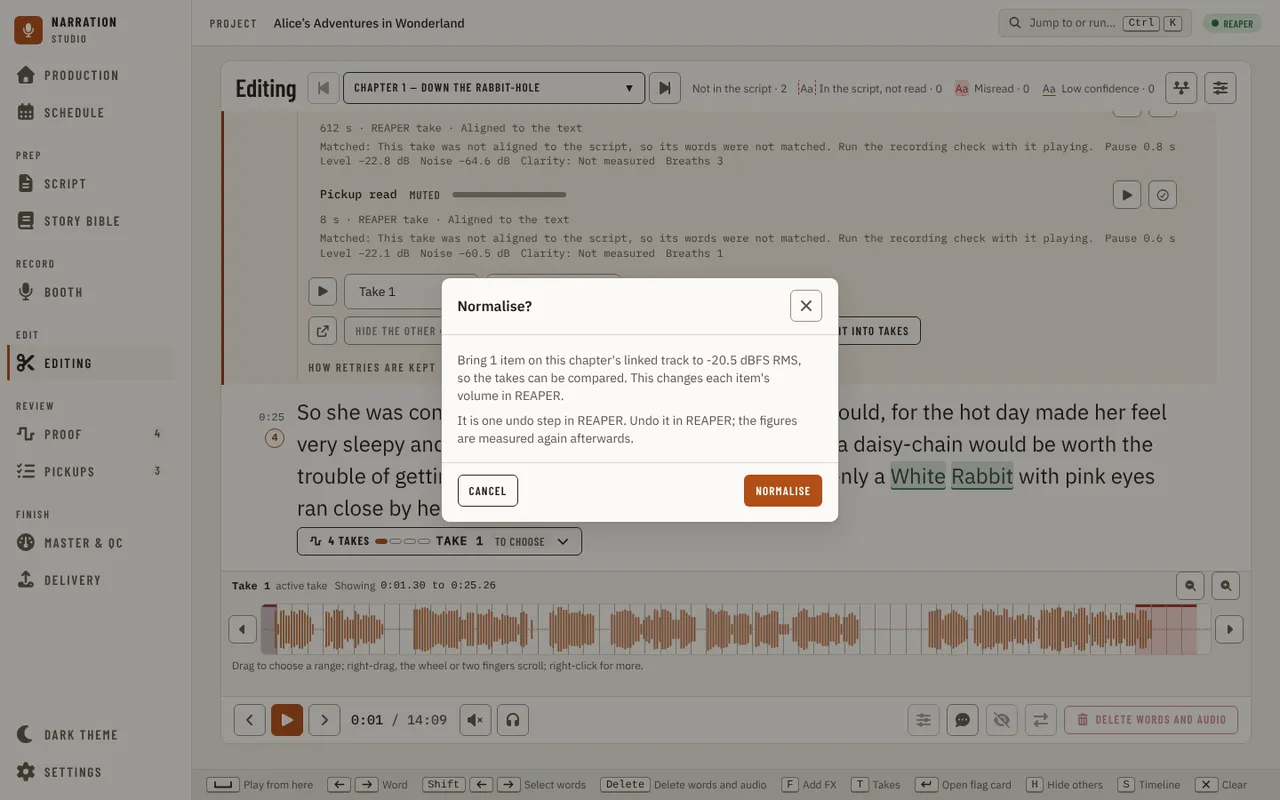
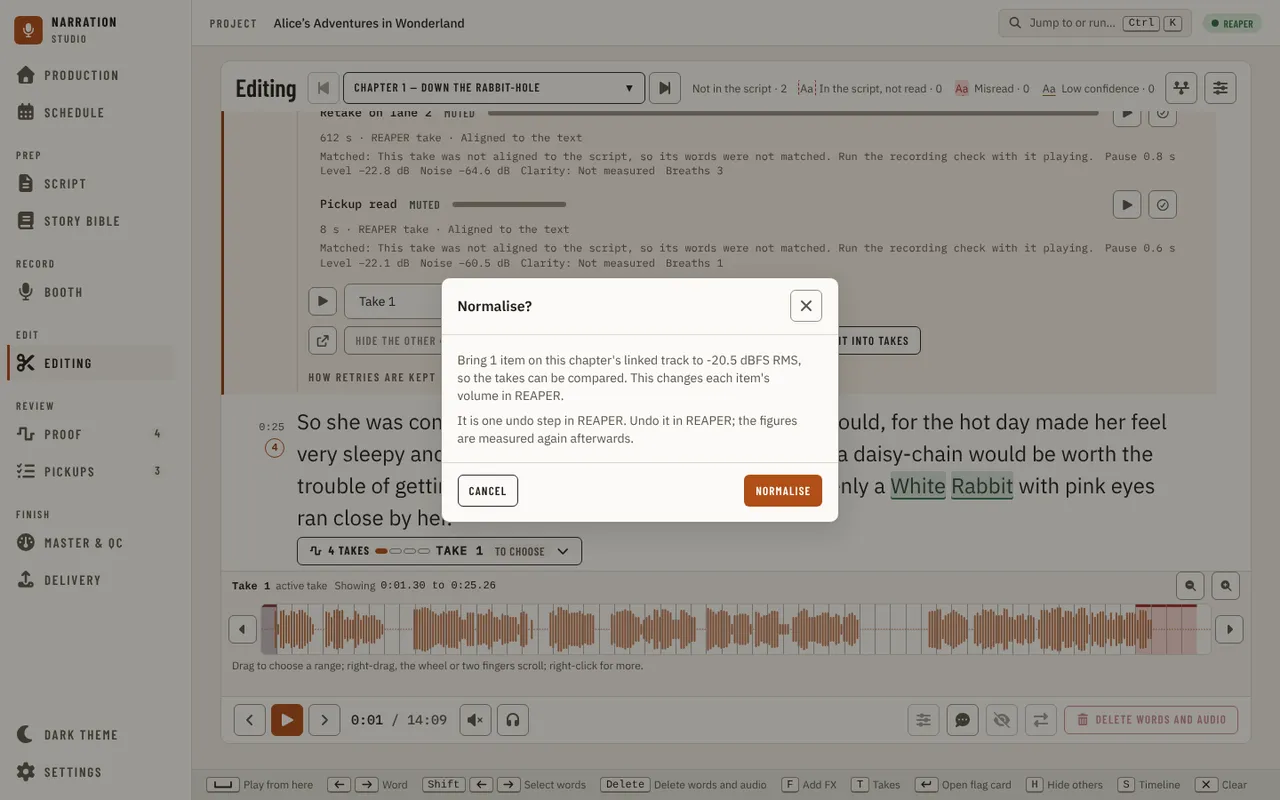
fix(ui): slide-overs and the Editing drawer dim what they cover (#2369)

Changed region(s): [[0.1875, 0.125, 0.9062, 0.7188], [0.6562, 0.5, 0.9062, 0.625], [0.6562, 0.4062, 0.7188, 0.4375]]

diff --git a/src/studio/ui/src/components/editing/drawer/DrawerLayout.tsx b/src/studio/ui/src/components/editing/drawer/DrawerLayout.tsx
@@ -4,14 +4,25 @@ import type { ReactNode } from 'react';
 const DRAWER_COLUMN = 'min-[1281px]:static min-[1281px]:w-auto';
 const OVERLAY = 'absolute inset-y-2 right-2 z-[var(--z-panel)] w-[min(360px,calc(100%-16px))] shadow-[var(--shadow-lg)]';
 
-/** The text with the drawer beside it (wide) or over it (narrow). Wide and narrow are the window width, as in the mock. */
-export function DrawerLayout({ open, drawer, children }: { open: boolean; drawer: ReactNode; children: ReactNode }) {
+/** The text with the drawer beside it (wide) or over it (narrow). Wide and narrow are the window width, as in the mock. Over the text, a
+ * scrim dims what it covers, so the lines the drawer cuts read as behind it (alignment audit cause O), and a press on it closes the drawer,
+ * as the Script page's drawers do. */
+export function DrawerLayout({ open, onClose, drawer, children }: { open: boolean; onClose: () => void; drawer: ReactNode; children: ReactNode }) {
   return (
     <div
       data-drawer-open={open || undefined}
       className={`relative grid h-full min-h-0 grid-cols-1 grid-rows-[minmax(0,1fr)] gap-3 ${open ? 'min-[1281px]:grid-cols-[minmax(0,1fr)_352px]' : ''}`}
     >
       <div className="min-h-0 min-w-0">{children}</div>
+      {open && (
+        // A pointer target only: Escape and the drawer's own close are the keyboard's way out.
+        <div
+          data-scrim=""
+          aria-hidden="true"
+          className="absolute inset-0 z-[var(--z-panel-scrim)] bg-[var(--panel-scrim)] min-[1281px]:hidden"
+          onClick={onClose}
+        />
+      )}
       {open ? (
         <div data-drawer-slot className={`${OVERLAY} ${DRAWER_COLUMN} flex min-h-0`}>
           {drawer}

diff --git a/src/studio/ui/src/components/editing/drawer/drawer.test.tsx b/src/studio/ui/src/components/editing/drawer/drawer.test.tsx
@@ -45,6 +45,7 @@ function Harness({ width, onReview = () => {}, children }: { width: number; onRe
       {children}
       <DrawerLayout
         open={d.open}
+        onClose={d.close}
         drawer={
           <Drawer
             doc={doc}
@@ -168,6 +169,19 @@ describe('layout-by-width', () => {
     mount(1440);
     await open();
     expect(document.querySelector('[data-drawer-open]')!.className).toContain(' min-[1281px]:grid-cols-[minmax(0,1fr)_352px]');
+  });
+
+  // Alignment audit cause O: over the text the drawer cut lines mid-word with nothing to say they were behind it.
+  it('dims the text under the overlay drawer, and a press on the dim closes it', async () => {
+    mount(1280);
+    await open();
+    const scrim = document.querySelector<HTMLElement>('[data-scrim]')!;
+    expect(scrim.className).toContain('bg-[var(--panel-scrim)]');
+    expect(scrim.className).toContain('min-[1281px]:hidden');
+    expect(scrim.getAttribute('aria-hidden')).toBe('true');
+    await userEvent.setup().click(scrim);
+    expect(document.querySelector('[data-drawer-slot]')).toBeNull();
+    expect(document.querySelector('[data-scrim]')).toBeNull();
   });
 });
 

diff --git a/src/studio/ui/src/components/primitives/SlideOver.test.tsx b/src/studio/ui/src/components/primitives/SlideOver.test.tsx
@@ -100,6 +100,15 @@ describe('SlideOver is a real modal panel', () => {
     expect(onClose).toHaveBeenCalledOnce();
   });
 
+  it('dims the page behind it, like the page drawers (alignment audit cause O)', () => {
+    render(
+      <SlideOver open title="Voice data" onClose={() => undefined}>
+        <p>Body</p>
+      </SlideOver>,
+    );
+    expect(document.querySelector('[data-slide-over-backdrop]')!.className).toContain('bg-[var(--panel-scrim)]');
+  });
+
   it('closes when the click-away backdrop is pressed', async () => {
     const onClose = vi.fn();
     const { user } = await openPanel(onClose);

diff --git a/src/studio/ui/src/styles.css b/src/studio/ui/src/styles.css
@@ -201,6 +201,9 @@ html[data-motion='reduce'] {
   --speaker-7: var(--event);
   --speaker-7-text: var(--event-text);
   --backdrop: rgba(20, 17, 12, 0.42);
+  /* The lighter dim behind a page's own drawer (the Script and Editing drawers over the text) and a slide-over: the page stays readable
+     around it, but a line cut by the drawer reads as behind it, not beside it. */
+  --panel-scrim: rgba(10, 8, 5, 0.35);
   --shadow: 0 1px 2px rgba(30, 26, 16, 0.06), 0 1px 1px rgba(30, 26, 16, 0.04);
   --shadow-lg: 0 1px 2px rgba(36, 33, 28, 0.08), 0 10px 28px rgba(36, 33, 28, 0.14);
   --control-radius: 0.45rem;

diff --git a/src/studio/ui/src/components/editing/page/EditingBody.tsx b/src/studio/ui/src/components/editing/page/EditingBody.tsx
@@ -537,7 +537,7 @@ export function EditingBody(props: EditingBodyProps) {
     <div ref={root} className="flex min-h-0 flex-1 flex-col">
       {chapterLink.dialog}
       <div className="min-h-0 flex-1 px-4 pb-3 [&>div]:h-full">
-        <DrawerLayout open={drawerOpen} drawer={drawer}>
+        <DrawerLayout open={drawerOpen} onClose={closeDrawer} drawer={drawer}>
           <div className="flex h-full min-h-0 flex-col overflow-hidden rounded-[10px] border border-[var(--border)] bg-[var(--surface)]">
             <NoAudioBanner
               audio={read.audio}

diff --git a/src/studio/ui/src/components/primitives/SlideOver.tsx b/src/studio/ui/src/components/primitives/SlideOver.tsx
@@ -56,7 +56,7 @@ export function SlideOver({
       }}
     >
       <Drawer.Portal>
-        <Drawer.Backdrop data-slide-over-backdrop className="fixed inset-0 z-[var(--z-slide-over-scrim)] bg-transparent" />
+        <Drawer.Backdrop data-slide-over-backdrop className="fixed inset-0 z-[var(--z-slide-over-scrim)] bg-[var(--panel-scrim)]" />
         <Drawer.Viewport className="fixed inset-0 z-[var(--z-slide-over)] flex items-stretch justify-end">
           <Drawer.Popup
             data-slide-over

diff --git a/src/studio/ui/src/components/script/page/layout/ScriptColumns.tsx b/src/studio/ui/src/components/script/page/layout/ScriptColumns.tsx
@@ -68,7 +68,7 @@ export function ScriptColumns({
         <div
           data-scrim=""
           aria-hidden="true"
-          className={`absolute inset-0 z-[var(--z-panel-scrim)] bg-[rgba(10,8,5,0.35)] ${SCRIM_FOR[drawer]}`}
+          className={`absolute inset-0 z-[var(--z-panel-scrim)] bg-[var(--panel-scrim)] ${SCRIM_FOR[drawer]}`}
           onClick={onClose}
         />
       )}

diff --git a/src/studio/ui/src/components/editing/drawer/Drawer.stories.tsx b/src/studio/ui/src/components/editing/drawer/Drawer.stories.tsx
@@ -48,6 +48,7 @@ function frame(width: number, tab: DrawerTab, backups: boolean, strip: TimelineS
             <Cursor />
             <DrawerLayout
               open
+              onClose={() => undefined}
               drawer={
                 <Drawer
                   doc={doc}

diff --git a/docs/design/design-system.md b/docs/design/design-system.md
@@ -28,7 +28,7 @@ Location: `src/studio/ui/src/components/primitives/`.
 
 | Component | Purpose | Notes |
 | --- | --- | --- |
-| `Dialog` | Modal shell on Base UI (backdrop, head, scrollable body, optional footer, action row) | `size` picks the width from one scale (`DIALOG_WIDTHS`), never wider than the window less 1rem a side: `confirm` 28 rem (the default for `variant="alert"`, so every `ConfirmDialog`), `form` 36 rem (the default otherwise), `palette` 40 rem (the jump menu, hung 12vh from the top by `placement="top"`, its default, so the field does not move as the list changes), `wide` 56 rem (a table or rows of controls: chapter links, chapter regions, a delivery profile, the import review and entry import, the status report, auditions), and `full` fills the viewport with a fixed 1rem margin (the full-size dialogs: a reader, a workspace); `overflow-x-hidden` + `break-words` body. The header, body and action row share one horizontal inset, `--space-6`, and a `description` keeps 12 px under it. The action row wraps rather than squeezing labels and keeps to the right: `actionsAlign="between"` (the default) moves the first of several actions to the left, a lone action stays at the right, and `"end"` keeps them all right (alignment audit cause B). Really modal: the page behind is hidden and unreachable, Tab loops, focus returns to the opener, or to the element `returnFocus` names when the opener is gone by close time (a menu item that ran and closed; the Editing page's dialogs name the script text, and the overlay service's `dialog` spec passes it through), then to `<main>`. Escape closes when there is an `onClose` (or `onEscape`), and answers only the topmost modal when one is open over another, even before focus has moved into it; a press outside closes it only when the dialog passes the required `dismissOnOutsidePress` as true (a reference sheet, a detail view, a picker that applies each choice at once, the jump menu); a confirm, a form or a job passes false, and `ConfirmDialog` and `WorkDialog` always do; focus starts on the body unless a child has `autoFocus`; `stayOnBody` makes a close with focus on `<body>` leave it there rather than move it into `<main>`. `bodyScroll={false}` makes the body a column that does not scroll (and has no tab stop), for a dialog whose content scrolls one region of its own, as the manuscript import review does; `footer` is a `flex-none` region between the body and `actions` that never scrolls, with no layout opinion of its own - the read-aloud dialog's control bar. Header 59 px with a 1 px divider, mock-measured either way; `headerless` draws no header row and no Close button and no body padding, for a surface whose first row is its own field (the jump menu); the title still names the dialog, visually hidden, and Escape closes as before; the action row keeps the mocks' 66 px band, its buttons centred now that `Button` is 32 px; a nested dialog (a `ConfirmDialog` opened from another `Dialog`) dims the page under it, unlike the slide-over |
+| `Dialog` | Modal shell on Base UI (backdrop, head, scrollable body, optional footer, action row) | `size` picks the width from one scale (`DIALOG_WIDTHS`), never wider than the window less 1rem a side: `confirm` 28 rem (the default for `variant="alert"`, so every `ConfirmDialog`), `form` 36 rem (the default otherwise), `palette` 40 rem (the jump menu, hung 12vh from the top by `placement="top"`, its default, so the field does not move as the list changes), `wide` 56 rem (a table or rows of controls: chapter links, chapter regions, a delivery profile, the import review and entry import, the status report, auditions), and `full` fills the viewport with a fixed 1rem margin (the full-size dialogs: a reader, a workspace); `overflow-x-hidden` + `break-words` body. The header, body and action row share one horizontal inset, `--space-6`, and a `description` keeps 12 px under it. The action row wraps rather than squeezing labels and keeps to the right: `actionsAlign="between"` (the default) moves the first of several actions to the left, a lone action stays at the right, and `"end"` keeps them all right (alignment audit cause B). Really modal: the page behind is hidden and unreachable, Tab loops, focus returns to the opener, or to the element `returnFocus` names when the opener is gone by close time (a menu item that ran and closed; the Editing page's dialogs name the script text, and the overlay service's `dialog` spec passes it through), then to `<main>`. Escape closes when there is an `onClose` (or `onEscape`), and answers only the topmost modal when one is open over another, even before focus has moved into it; a press outside closes it only when the dialog passes the required `dismissOnOutsidePress` as true (a reference sheet, a detail view, a picker that applies each choice at once, the jump menu); a confirm, a form or a job passes false, and `ConfirmDialog` and `WorkDialog` always do; focus starts on the body unless a child has `autoFocus`; `stayOnBody` makes a close with focus on `<body>` leave it there rather than move it into `<main>`. `bodyScroll={false}` makes the body a column that does not scroll (and has no tab stop), for a dialog whose content scrolls one region of its own, as the manuscript import review does; `footer` is a `flex-none` region between the body and `actions` that never scrolls, with no layout opinion of its own - the read-aloud dialog's control bar. Header 59 px with a 1 px divider, mock-measured either way; `headerless` draws no header row and no Close button and no body padding, for a surface whose first row is its own field (the jump menu); the title still names the dialog, visually hidden, and Escape closes as before; the action row keeps the mocks' 66 px band, its buttons centred now that `Button` is 32 px; a nested dialog (a `ConfirmDialog` opened from another `Dialog`) dims the page under it, with the dialogs' darker `--backdrop` |
 | `ConfirmDialog` | Question with Cancel and a confirm (`Dialog` as an `alertdialog`) | `body` is its accessible description; `cancelLabel` renames Cancel where staying needs its own word (the Booth's "Keep recording"), and it still declines; `focusCancel` opens focus on that button instead of the message and `stayOnBody` leaves focus on `<body>` on close when it was there (not in `<main>`), for a question whose safe answer is to stay (the overlay service's `safeDefault`; the Booth's "Stop recording?"); `confirmVariant="danger"` (red) for actions that destroy data; a third `danger` action needs its `dangerLabel` |
 | `WorkDialog` | Progress dialog for a background job | `ProgressBar` (Base UI `Progress`, `aria-valuenow` only when determinate), message in a live region; Escape works only once the job has finished. A running job with no Cancel stays blocking and says "This step cannot be cancelled. Close appears when it finishes." as the dialog's description, and draws no action row (`Dialog` draws its action row only when `actions` is not `null`); the fill eases and slides only under `motion-ok:` |
 | `TooltipTarget`, `Tooltip` | Hints on Base UI | `TooltipTarget` wraps a control that names itself; the hint shows after 1000 ms of hover or at once on keyboard focus, stays while hovered, and Escape dismisses it (WCAG 1.4.13); a disabled child's wrapper is the tab stop with the reason as its name; `inline` makes the trigger an inline box for a control in running text (a read-aloud flag, [readerFlags.ts](../../src/studio/ui/src/components/booth/readerFlags.ts)). `Tooltip` is the info icon: a real button whose text is also its `aria-description`, with a popover on hover, keyboard focus and press; `label` names it when a page has more than one, and Escape closes it wherever focus is (also for a note opened by hover inside a dialog) |
@@ -48,7 +48,7 @@ Location: `src/studio/ui/src/components/primitives/`.
 | `Table` (with `TableHead`, `TableBody`, `TableRow`, `TableHeader`, `TableCell`) | Presentational data table on the browser's own table elements | `label` names it; `TableRow onActivate` makes a row a control (tab stop, Enter or Space, `selected` sets `aria-selected`, a control inside it keeps its own press, `data-row`); `TableRow data` adds `data-*` attributes to the row (a key a right-click menu reads); `TableHeader align="right"` for numeric columns and `sorted`/`onSort` for a sortable column (`aria-sort`); a 31 px header and 34 px rows from `--header-row-height`/`--row-height`, 14 px body text; `TableCell` sits in the middle of the row (`valign="top"` for a multi-line table), `numeric` (Plex Mono 13 px, right-aligned, unbroken) and `muted` (12 px secondary text); a `selected` row is filled `--row-selected`, `TableRow emphasis="current"` is bold and `"highlight"` takes the selected fill without `aria-selected`; `Table flush` runs to a `Panel`'s side edges; `TableHead sticky`; the caller owns sorting and selection `TableBody navigable` moves focus between pressable rows with Up, Down, Home and End (a key aimed at a control inside a row is left to it) and `onKeyDown` and `onFocus` hear the body's keys and focus; `TableRow tabStop={false}` drops a row from the tab order so rows share one stop; `Table rowCount` and `TableRow rowIndex` set `aria-rowcount` and `aria-rowindex` for a caller that draws only the rows in view (the Story Bible's entry table); `columns` fixes the column widths (one CSS width per column, `'auto'` for the rest, drawn as a `colgroup` with `table-fixed`), so columns stay put between states and a long cell wraps in its own column; a table at its card's edges (`flush`, or any table in a `Panel flush`) starts its first column and ends its last 16 px in, where the card title starts, and drops the last row's rule for the card's border (`TABLE_EDGES`, alignment audit cause D) |
 | `Highlight` | Highlighted text (entity / note / review, plus the Teleprompter's `Cursor` word and the read-aloud flags) | One category→color mapping; fills the line height; `Cursor` is an `--accent-soft` fill with `--accent-strong` text, a 0.25rem radius and a 2 px `--accent` leading caret (an inset shadow), so it reads as a position marker and not a selection; the flag kinds `Misread`, `Skipped`, `Restart` (wavy, dotted, dashed underline) and `Extra` (an insertion bar) are decorations only, no tint or text colour; `label` and `description` name and describe an activatable mark ([usePacedCursor.ts](../../src/studio/ui/src/components/booth/usePacedCursor.ts), [readerFlags.ts](../../src/studio/ui/src/components/booth/readerFlags.ts)) |
 | `Swatch` | A small rounded square filled from a colour token | `colour` is one of `SWATCH_COLOURS` (`accent`, the entity-kind hues, `speaker-1` to `speaker-7`, `ok`, `warn`, `danger`, `info`, `non-text`), never a raw value, so a page cannot paste a hex; an unknown name throws, and `Swatch.test.tsx` fails a name that `styles.css` does not declare. 12 px with a 3 px radius, or `size` px square. Decorative and `aria-hidden`: the label beside it names the thing. It sits on the text's middle and does not shrink in a flex row |
-| `SlideOver` | Right-edge modal panel with a transparent click-away backdrop (Base UI Drawer) | Pure Tailwind; a closed panel is not in the page; Escape, a press on the (invisible) backdrop and the Close button close it, Tab loops inside, focus returns to the opener; `data-slide-over` and `data-slide-over-backdrop` mark it; the backdrop draws no dimming, matching the mocks, while staying a real modal (page behind hidden and unreachable) — the visual clause of Design system reference, superseded by Design system reference |
+| `SlideOver` | Right-edge modal panel with a dimmed click-away backdrop (Base UI Drawer) | Pure Tailwind; a closed panel is not in the page; Escape, a press on the backdrop and the Close button close it, Tab loops inside, focus returns to the opener; `data-slide-over` and `data-slide-over-backdrop` mark it; the backdrop dims the page with `--panel-scrim`, the same dim as the Script and Editing drawers over the text, while staying a real modal (page behind hidden and unreachable). This departs from the mocks, which draw no dimming: an undimmed panel over the page cut its content mid-word with nothing to say it was behind (alignment audit cause O, owner decision on #2251 to fix every audit finding) |
 | `NavDrawer` | The narrow layout's navigation, a modal drawer from the left | Used only by `AppShell`; same modal behaviour as `SlideOver`; no phone viewport is captured ([viewports.ts](../../src/studio/ui/tests/visual/viewports.ts)), so its stories are its visual record |
 | `Pill` | Toggle chip (Base UI Toggle: `aria-pressed`) | Active/inactive classes are mutually exclusive so text stays readable in dark mode |
 | `Menu` | Menu button and popup of items (Base UI Menu) | Arrow keys, typeahead, Escape, focus back on the button; used for the Story Bible category badge and its Generate/Replace pronunciation control; popup at `z-55`; `render={<IconButton label="..." />}` renders the trigger as another component (an icon-only trigger) instead of pasting the icon-button look, the same pattern as `TooltipTarget`; `sections` adds headed groups after the items, each a plain list, checkboxes (`select: 'many'`, `menuitemcheckbox`) or radios (`select: 'one'`, `menuitemradio`), with an item's `trailing` drawn muted at the row's end (a count, read as "Place, 96"); choosing a checkbox or radio keeps the menu open (the Story Bible's Filter menu), unless the section sets `closeOnSelect` (the Story Bible's Sort menu: one choice and done) |
